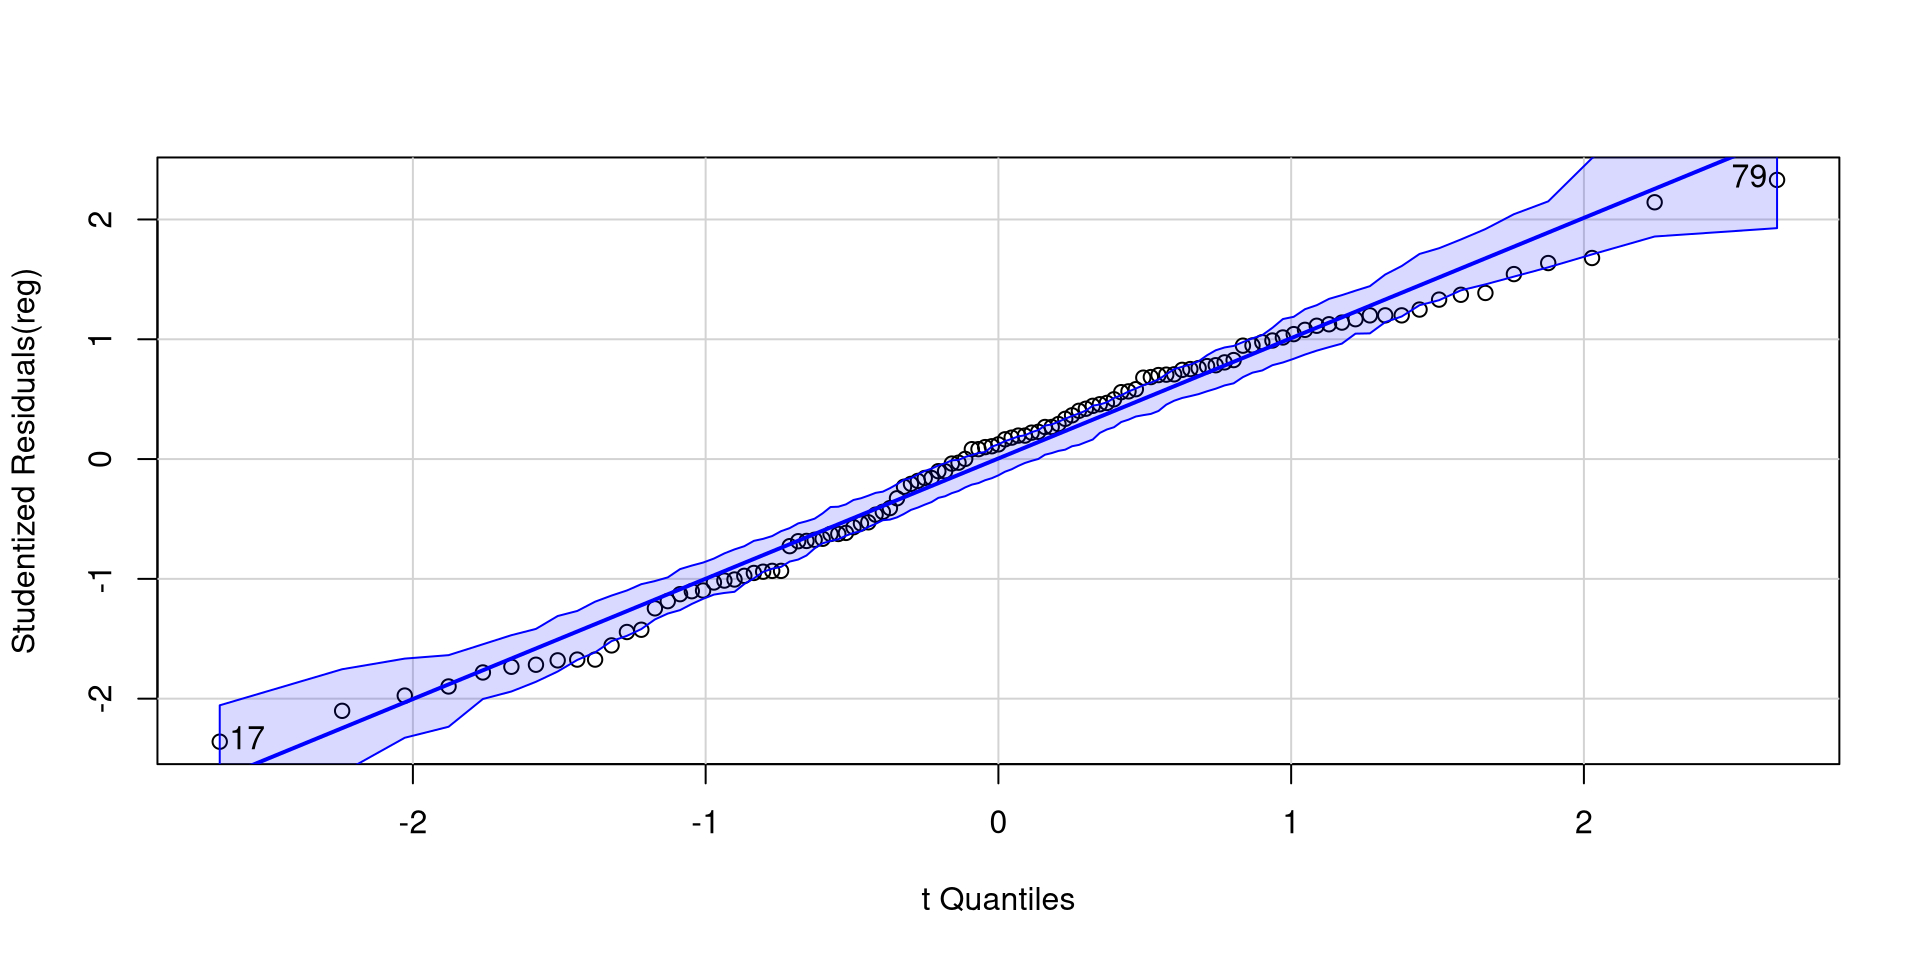
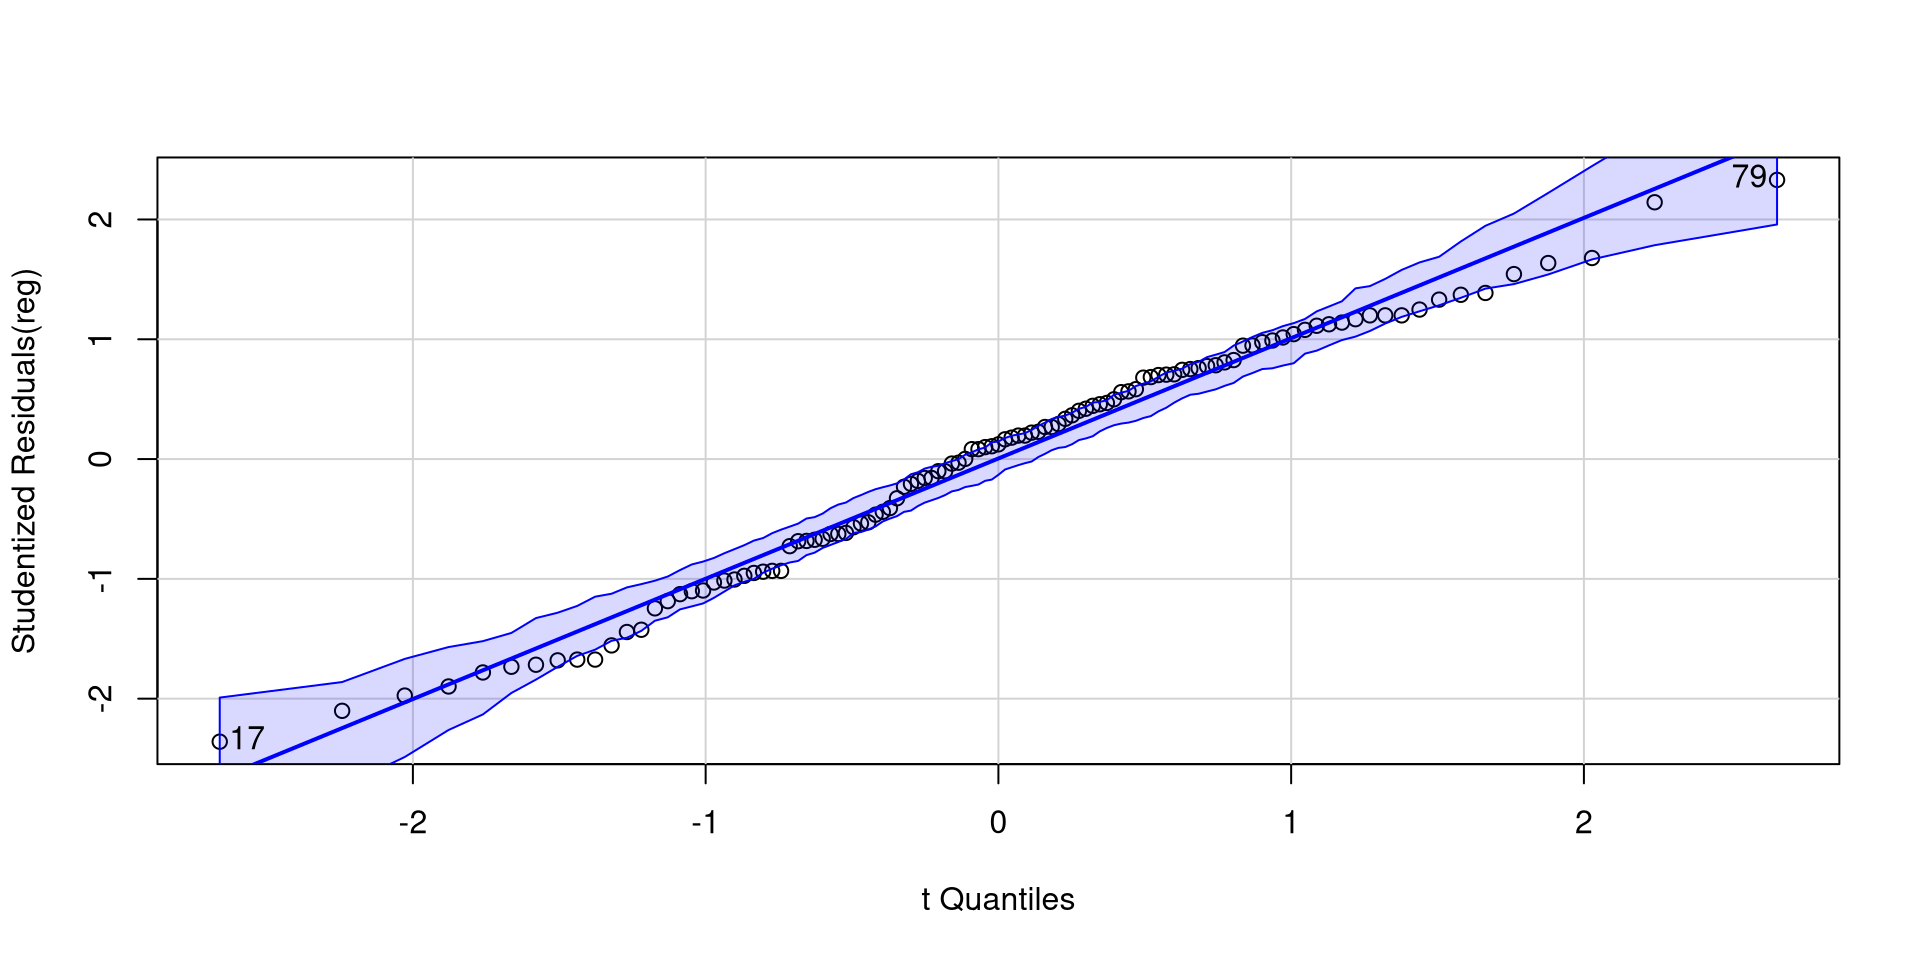
Typos

diff --git a/static/PSYC7804_Spring_2026/Lab 1.html b/static/PSYC7804_Spring_2026/Lab 1.html
@@ -287,8 +287,8 @@ theme_set(theme_classic(base_size = 16,
 <p>This dataset includes weather measuremts taken in New York at different timepoints.</p>
 <div class="cell">
 <div class="cell-output-display">
-<div id="htmlwidget-ff45c69a0f8e7a62b14e" class="reactable html-widget" style="width:auto;height:300px;"></div>
-<script type="application/json" data-for="htmlwidget-ff45c69a0f8e7a62b14e">{"x":{"tag":{"name":"Reactable","attribs":{"data":{"Case":[1,2,3,4,5,6,7,8,9,10,11,12,13,14,15,16,17,18,19,20,21,22,23,24,25,26,27,28,29,30,31,32,33,34,35,36,37,38,39,40,41,42,43,44,45,46,47,48,49,50,51,52,53,54,55,56,57,58,59,60,61,62,63,64,65,66,67,68,69,70,71,72,73,74,75,76,77,78,79,80,81,82,83,84,85,86,87,88,89,90,91,92,93,94,95,96,97,98,99,100,101,102,103,104,105,106,107,108,109,110,111],"NY_Ozone":[41,36,12,18,23,19,8,16,11,14,18,14,34,6,30,11,1,11,4,32,23,45,115,37,29,71,39,23,21,37,20,12,13,135,49,32,64,40,77,97,97,85,10,27,7,48,35,61,79,63,16,80,108,20,52,82,50,64,59,39,9,16,122,89,110,44,28,65,22,59,23,31,44,21,9,45,168,73,76,118,84,85,96,78,73,91,47,32,20,23,21,24,44,21,28,9,13,46,18,13,24,16,13,23,36,7,14,30,14,18,20],"SolR":[190,118,149,313,299,99,19,256,290,274,65,334,307,78,322,44,8,320,25,92,13,252,223,279,127,291,323,148,191,284,37,120,137,269,248,236,175,314,276,267,272,175,264,175,48,260,274,285,187,220,7,294,223,81,82,213,275,253,254,83,24,77,255,229,207,192,273,157,71,51,115,244,190,259,36,212,238,215,203,225,237,188,167,197,183,189,95,92,252,220,230,259,236,259,238,24,112,237,224,27,238,201,238,14,139,49,20,193,191,131,223],"Temp":[67,72,74,62,65,59,61,69,66,68,58,64,66,57,68,62,59,73,61,61,67,81,79,76,82,90,87,82,77,72,65,73,76,84,85,81,83,83,88,92,92,89,73,81,80,81,82,84,87,85,74,86,85,82,86,88,86,83,81,81,81,82,89,90,90,86,82,80,77,79,76,78,78,77,72,79,81,86,97,94,96,94,91,92,93,93,87,84,80,78,75,73,81,76,77,71,71,78,67,76,68,82,64,71,81,69,63,70,75,76,68],"Wind":[7.4,8,12.6,11.5,8.6,13.8,20.1,9.7,9.2,10.9,13.2,11.5,12,18.4,11.5,9.7,9.7,16.6,9.7,12,12,14.9,5.7,7.4,9.7,13.8,11.5,8,14.9,20.7,9.2,11.5,10.3,4,9.2,9.2,4.6,10.9,5.1,6.3,5.7,7.4,14.3,14.9,14.3,6.9,10.3,6.3,5.1,11.5,6.9,8.6,8,8.6,12,7.4,7.4,7.4,9.2,6.9,13.8,7.4,4,10.3,8,11.5,11.5,9.7,10.3,6.3,7.4,10.9,10.3,15.5,14.3,9.7,3.4,8,9.7,2.3,6.3,6.3,6.9,5.1,2.8,4.6,7.4,15.5,10.9,10.3,10.9,9.7,14.9,15.5,6.3,10.9,11.5,6.9,13.8,10.3,10.3,8,12.6,9.2,10.3,10.3,16.6,6.9,14.3,8,11.5]},"columns":[{"id":"Case","name":"Case","type":"numeric","minWidth":40,"header":{"name":"div","attribs":{"style":{"display":"flex","align-items":"center","gap":"4px"},"title":"Measurement instance"},"children":["Case",{"name":"span","attribs":{"title":"Measurement instance","style":{"cursor":"pointer","color":"#7a0b80"}},"children":["ℹ"]}]}},{"id":"NY_Ozone","name":"NY_Ozone","type":"numeric","minWidth":40,"header":{"name":"div","attribs":{"style":{"display":"flex","align-items":"center","gap":"4px"},"title":"Ozone levels"},"children":["NY_Ozone",{"name":"span","attribs":{"title":"Ozone levels","style":{"cursor":"pointer","color":"#7a0b80"}},"children":["ℹ"]}]}},{"id":"SolR","name":"SolR","type":"numeric","minWidth":40,"header":{"name":"div","attribs":{"style":{"display":"flex","align-items":"center","gap":"4px"},"title":"Solar Radiations Levels"},"children":["SolR",{"name":"span","attribs":{"title":"Solar Radiations Levels","style":{"cursor":"pointer","color":"#7a0b80"}},"children":["ℹ"]}]}},{"id":"Temp","name":"Temp","type":"numeric","minWidth":40,"header":{"name":"div","attribs":{"style":{"display":"flex","align-items":"center","gap":"4px"},"title":"Temperature (Fahrenheit)"},"children":["Temp",{"name":"span","attribs":{"title":"Temperature (Fahrenheit)","style":{"cursor":"pointer","color":"#7a0b80"}},"children":["ℹ"]}]}},{"id":"Wind","name":"Wind","type":"numeric","minWidth":40,"header":{"name":"div","attribs":{"style":{"display":"flex","align-items":"center","gap":"4px"},"title":"Wind Speed"},"children":["Wind",{"name":"span","attribs":{"title":"Wind Speed","style":{"cursor":"pointer","color":"#7a0b80"}},"children":["ℹ"]}]}}],"pagination":false,"highlight":true,"style":{"fontFamily":"Work Sans, sans-serif","fontSize":"1rem"},"height":"300px","dataKey":"8e2ca87d3c9a3d5d64f7014631760e11"},"children":[]},"class":"reactR_markup"},"evals":[],"jsHooks":[]}</script>
+<div id="htmlwidget-ba54276bb9ce6145672f" class="reactable html-widget" style="width:auto;height:300px;"></div>
+<script type="application/json" data-for="htmlwidget-ba54276bb9ce6145672f">{"x":{"tag":{"name":"Reactable","attribs":{"data":{"Case":[1,2,3,4,5,6,7,8,9,10,11,12,13,14,15,16,17,18,19,20,21,22,23,24,25,26,27,28,29,30,31,32,33,34,35,36,37,38,39,40,41,42,43,44,45,46,47,48,49,50,51,52,53,54,55,56,57,58,59,60,61,62,63,64,65,66,67,68,69,70,71,72,73,74,75,76,77,78,79,80,81,82,83,84,85,86,87,88,89,90,91,92,93,94,95,96,97,98,99,100,101,102,103,104,105,106,107,108,109,110,111],"NY_Ozone":[41,36,12,18,23,19,8,16,11,14,18,14,34,6,30,11,1,11,4,32,23,45,115,37,29,71,39,23,21,37,20,12,13,135,49,32,64,40,77,97,97,85,10,27,7,48,35,61,79,63,16,80,108,20,52,82,50,64,59,39,9,16,122,89,110,44,28,65,22,59,23,31,44,21,9,45,168,73,76,118,84,85,96,78,73,91,47,32,20,23,21,24,44,21,28,9,13,46,18,13,24,16,13,23,36,7,14,30,14,18,20],"SolR":[190,118,149,313,299,99,19,256,290,274,65,334,307,78,322,44,8,320,25,92,13,252,223,279,127,291,323,148,191,284,37,120,137,269,248,236,175,314,276,267,272,175,264,175,48,260,274,285,187,220,7,294,223,81,82,213,275,253,254,83,24,77,255,229,207,192,273,157,71,51,115,244,190,259,36,212,238,215,203,225,237,188,167,197,183,189,95,92,252,220,230,259,236,259,238,24,112,237,224,27,238,201,238,14,139,49,20,193,191,131,223],"Temp":[67,72,74,62,65,59,61,69,66,68,58,64,66,57,68,62,59,73,61,61,67,81,79,76,82,90,87,82,77,72,65,73,76,84,85,81,83,83,88,92,92,89,73,81,80,81,82,84,87,85,74,86,85,82,86,88,86,83,81,81,81,82,89,90,90,86,82,80,77,79,76,78,78,77,72,79,81,86,97,94,96,94,91,92,93,93,87,84,80,78,75,73,81,76,77,71,71,78,67,76,68,82,64,71,81,69,63,70,75,76,68],"Wind":[7.4,8,12.6,11.5,8.6,13.8,20.1,9.7,9.2,10.9,13.2,11.5,12,18.4,11.5,9.7,9.7,16.6,9.7,12,12,14.9,5.7,7.4,9.7,13.8,11.5,8,14.9,20.7,9.2,11.5,10.3,4,9.2,9.2,4.6,10.9,5.1,6.3,5.7,7.4,14.3,14.9,14.3,6.9,10.3,6.3,5.1,11.5,6.9,8.6,8,8.6,12,7.4,7.4,7.4,9.2,6.9,13.8,7.4,4,10.3,8,11.5,11.5,9.7,10.3,6.3,7.4,10.9,10.3,15.5,14.3,9.7,3.4,8,9.7,2.3,6.3,6.3,6.9,5.1,2.8,4.6,7.4,15.5,10.9,10.3,10.9,9.7,14.9,15.5,6.3,10.9,11.5,6.9,13.8,10.3,10.3,8,12.6,9.2,10.3,10.3,16.6,6.9,14.3,8,11.5]},"columns":[{"id":"Case","name":"Case","type":"numeric","minWidth":40,"header":{"name":"div","attribs":{"style":{"display":"flex","align-items":"center","gap":"4px"},"title":"Measurement instance"},"children":["Case",{"name":"span","attribs":{"title":"Measurement instance","style":{"cursor":"pointer","color":"#7a0b80"}},"children":["ℹ"]}]}},{"id":"NY_Ozone","name":"NY_Ozone","type":"numeric","minWidth":40,"header":{"name":"div","attribs":{"style":{"display":"flex","align-items":"center","gap":"4px"},"title":"Ozone levels"},"children":["NY_Ozone",{"name":"span","attribs":{"title":"Ozone levels","style":{"cursor":"pointer","color":"#7a0b80"}},"children":["ℹ"]}]}},{"id":"SolR","name":"SolR","type":"numeric","minWidth":40,"header":{"name":"div","attribs":{"style":{"display":"flex","align-items":"center","gap":"4px"},"title":"Solar Radiations Levels"},"children":["SolR",{"name":"span","attribs":{"title":"Solar Radiations Levels","style":{"cursor":"pointer","color":"#7a0b80"}},"children":["ℹ"]}]}},{"id":"Temp","name":"Temp","type":"numeric","minWidth":40,"header":{"name":"div","attribs":{"style":{"display":"flex","align-items":"center","gap":"4px"},"title":"Temperature (Fahrenheit)"},"children":["Temp",{"name":"span","attribs":{"title":"Temperature (Fahrenheit)","style":{"cursor":"pointer","color":"#7a0b80"}},"children":["ℹ"]}]}},{"id":"Wind","name":"Wind","type":"numeric","minWidth":40,"header":{"name":"div","attribs":{"style":{"display":"flex","align-items":"center","gap":"4px"},"title":"Wind Speed"},"children":["Wind",{"name":"span","attribs":{"title":"Wind Speed","style":{"cursor":"pointer","color":"#7a0b80"}},"children":["ℹ"]}]}}],"pagination":false,"highlight":true,"style":{"fontFamily":"Work Sans, sans-serif","fontSize":"1rem"},"height":"300px","dataKey":"8e2ca87d3c9a3d5d64f7014631760e11"},"children":[]},"class":"reactR_markup"},"evals":[],"jsHooks":[]}</script>
 </div>
 </div>
 </div></div>
@@ -568,7 +568,7 @@ Wind         0.22 0.34</code></pre>
 </section>
 <section id="histogram-adjusting-bins" class="slide level2">
 <h2>Histogram: Adjusting Bins</h2>
-<p>ere I just touched up the plot a bit and set the bins to 15. It is much easier to tell what the distribution looks like now.</p>
+<p>Here I just touched up the plot a bit and set the bins to 15. It is much easier to tell what the distribution looks like now.</p>
 <div class="columns">
 <div class="column" style="width:30%;">
 <div class="cell code-125">
@@ -774,7 +774,7 @@ One-Predictor Regression
 </section>
 <section id="run-a-regression-with-lm" class="slide level2">
 <h2>Run a Regression with <code>lm()</code></h2>
-<p>The <code>lm()</code> function is what runs <a href="https://en.wikipedia.org/wiki/Ordinary_least_squares" target="_blank">ordinary least squares (OLS) regression</a> in <code>R</code>. The function stands fro “linear model”!</p>
+<p>The <code>lm()</code> function is what runs <a href="https://en.wikipedia.org/wiki/Ordinary_least_squares" target="_blank">ordinary least squares (OLS) regression</a> in <code>R</code>. The function stands for “linear model”!</p>
 <div class="columns">
 <div class="column" style="width:60%;">
 <div class="cell code-125">
@@ -1310,7 +1310,7 @@ The <em>red dots</em> are the predicted values for our data points.
 </section>
 <section id="plotting-residuals-against-predictors" class="slide level2">
 <h2>Plotting Residuals Against Predictors</h2>
-<p>Equivalently, we can also check that the residuals residuals are evenly distributed around 0 and there are no non-linear trends.</p>
+<p>Equivalently, we can also check that the residuals are evenly distributed around 0 and there are no non-linear trends.</p>
 <div class="columns">
 <div class="column" style="width:30%;">
 <div class="fragment" data-fragment-index="1">
